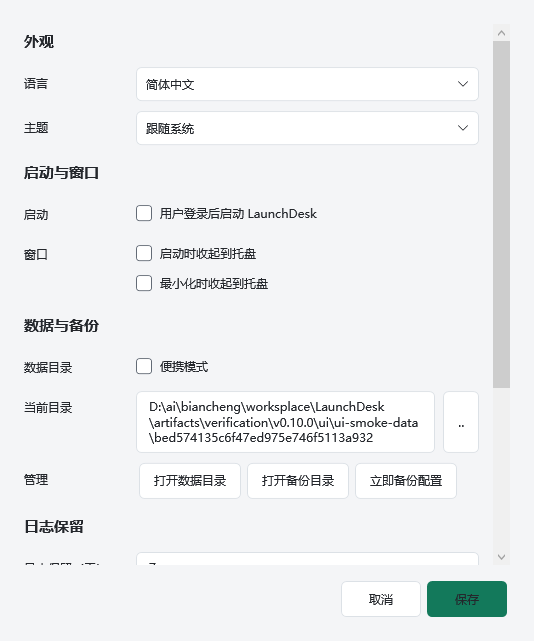
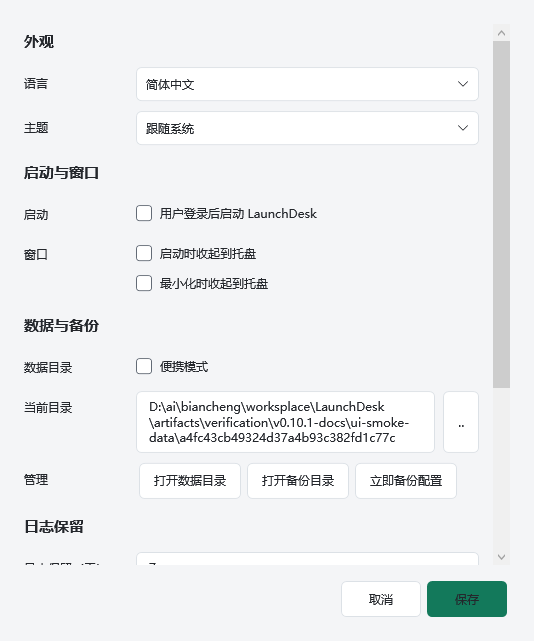
Fix stderr channel styling and release v0.10.1

Changed region(s): [[0.2697, 0.6552, 0.779, 0.6864]]

diff --git a/tests/LaunchDesk.UiChecks/UsabilityChecks.cs b/tests/LaunchDesk.UiChecks/UsabilityChecks.cs
@@ -137,7 +137,7 @@ internal static class UsabilityChecks
                 var prefix = ((Paragraph)rendered.Document.Blocks.FirstBlock).Inlines.OfType<Run>().First();
                 Check(ReferenceEquals(prefix.Foreground, Application.Current.Resources["TerminalText"]), "Stdout ERROR remains stdout");
                 rendered.Channel = "stderr";
-                Check(ReferenceEquals(prefix.Foreground, Application.Current.Resources["LogError"]), "Stderr prefix color");
+                Check(ReferenceEquals(prefix.Foreground, Application.Current.Resources["TerminalText"]), "Stderr is a transport channel, not error severity");
                 Theme.ApplyHighContrast(Application.Current.Resources);
                 Check(ReferenceEquals(prefix.Foreground, SystemColors.WindowTextBrush), "High contrast channel fallback");
                 var selectedContainer = (ListBoxItem)ItemsControl.ContainerFromElement(log, rendered);
@@ -146,6 +146,22 @@ internal static class UsabilityChecks
                 var link = ((Paragraph)rendered.Document.Blocks.FirstBlock).Inlines.OfType<Hyperlink>().Single();
                 Check(ReferenceEquals(link.Foreground, SystemColors.HighlightTextBrush) && link.ToolTip!.ToString()!.Contains("Ctrl"), "Selected link contrast and tooltip");
                 UiSmokeRunner.Capture(logWindow, report + ".high-contrast.png");
+                foreach (var theme in new[] { "Light", "Dark" })
+                {
+                    Theme.Apply(theme);
+                    var samples = new[] { "INFO[2026-10-15 21:07:47] start HTTP server @ 0.0.0.0:5244", "WARN[2026-10-15 21:07:47] init tool aria2 failed", "ERROR connection failed" };
+                    log.SetProjectedLines(samples.Select(x => new ProjectedLogLine("[stderr] " + x, 9, "stderr")).ToArray());
+                    log.UnselectAll(); logWindow.UpdateLayout();
+                    var stderrRows = LogView.VisualChildren<LogLineView>(log).Where(x => x.Channel == "stderr").ToArray();
+                    Check(stderrRows.Length == samples.Length, "Alist stderr rows rendered " + theme);
+                    foreach (var stderrRow in stderrRows)
+                    {
+                        var run = ((Paragraph)stderrRow.Document.Blocks.FirstBlock).Inlines.OfType<Run>().First();
+                        Check(ReferenceEquals(run.Foreground, Application.Current.Resources["TerminalText"]), "Stderr severity is not inferred " + theme);
+                        Check(stderrRow.Value.StartsWith("[stderr] ") && samples.Any(stderrRow.Value.EndsWith), "Original stderr content retained " + theme);
+                    }
+                    UiSmokeRunner.Capture(logWindow, report + ".stderr-" + theme + ".png");
+                }
             }
             finally { logWindow.Close(); Theme.Apply("Light"); }
             Check(ExitCodeDisplay.Format(NativeProcess.ForcedExitCode) == "0xE04C4401" && ExitCodeDisplay.Format(1) == "1", "Forced versus ordinary exit formatting");

diff --git a/src/LaunchDesk.App/LogView.cs b/src/LaunchDesk.App/LogView.cs
@@ -334,8 +334,9 @@ public sealed class LogLineView : RichTextBox
     private void ApplyChannelColor()
     {
         if (Document is null) return;
-        // Only the provenance prefix is colored; stdout text is not severity-parsed.
-        var key = IsRowSelected ? "LogSelectedText" : Channel switch { "stderr" => "LogError", "system" => "LogSystem", "stdin" => "LogInput", _ => "TerminalText" };
+        // stdout/stderr identify pipes, not severity: many services log INFO to stderr.
+        // Preserve the actual channel without implying that a running service failed.
+        var key = IsRowSelected ? "LogSelectedText" : Channel switch { "system" => "LogSystem", "stdin" => "LogInput", _ => "TerminalText" };
         foreach (var run in prefixRuns) run.SetResourceReference(ForegroundProperty, key);
         if (Document.Blocks.FirstBlock is Paragraph paragraph)
             foreach (var link in paragraph.Inlines.OfType<Hyperlink>()) link.SetResourceReference(ForegroundProperty, IsRowSelected ? "LogSelectedText" : "LogLink");

diff --git a/README.en.md b/README.en.md
@@ -20,7 +20,7 @@ Start scripts, commands and programs together. Keep their status and logs in one
 
 ![LaunchDesk English interface](docs/images/main-en.png)
 
-> Current stable release: **v0.10.0**. Installers are **unsigned and require manual installation**; stable status is not publisher-signature certification. Screenshots use isolated fixture data, not preinstalled launch items or logs. [More screenshots](docs/screenshots.md)
+> Current stable release: **v0.10.1**. Installers are **unsigned and require manual installation**; stable status is not publisher-signature certification. Screenshots use isolated fixture data, not preinstalled launch items or logs. [More screenshots](docs/screenshots.md)
 
 ## Contents
 
@@ -76,7 +76,7 @@ Each item has its own arguments, working directory, environment, encoding, stop 
 ### Download and install
 
 1. Open the [latest stable release](https://github.com/hailaij/LaunchDesk/releases/latest).
-2. Download `LaunchDesk-v0.10.0-win-x64-setup.exe` or the portable `LaunchDesk-v0.10.0-win-x64.zip`.
+2. Download `LaunchDesk-v0.10.1-win-x64-setup.exe` or the portable `LaunchDesk-v0.10.1-win-x64.zip`.
 3. Windows 10/11 x64 self-contained packages include .NET. Fully extract the ZIP before running `LaunchDesk.exe`.
 4. Add a launch item, enter the command/resource, arguments and working directory, then start it.
 
@@ -108,7 +108,7 @@ See [advanced usage and development](docs/advanced-guide.en.md) for packaging, t
 | [Services, accessibility and installer](docs/service-accessibility-installer.md) | CLI, elevation, service hosting and acceptance boundaries |
 | [Project structure](docs/project-structure.md) | Source, tests, scripts and generated files |
 | [Update boundaries](docs/update-security.md) | Metadata checks, browser downloads and independent signing gates |
-| [Release verification](docs/release-v0.10.0.md) | Release provenance, verification scope and known limitations |
+| [Release verification](docs/release-v0.10.1.md) | Release provenance, verification scope and known limitations |
 | [Test isolation and scale](docs/scale-and-test-gates.md) | Deadlines, resource keys, 1,000-item and 200 MiB gates |
 | [Security](SECURITY.md) / [Privacy](PRIVACY.md) | Vulnerability reporting, network and local data handling |
 
@@ -151,7 +151,7 @@ It does not manage their internal lifecycles or provide remote administration. E
 
 **Is the stable release signed and fully accepted on physical machines?**
 
-No. Packages remain unsigned. Physical Windows 10, real services, UAC/SCM and screen-reader acceptance are pending. A prior development source passed a one-hour soak, but it was not repeated on this release source. Historical intermittent npm/PowerShell exit timeouts remain unexplained; subsequent passes do not prove a root-cause fix. See the [release verification record](https://github.com/hailaij/LaunchDesk/releases/tag/v0.10.0).
+No. Packages remain unsigned. Physical Windows 10, real services, UAC/SCM and screen-reader acceptance are pending. A prior development source passed a one-hour soak, but it was not repeated on this release source. Historical intermittent npm/PowerShell exit timeouts remain unexplained; subsequent passes do not prove a root-cause fix. See the [release verification record](https://github.com/hailaij/LaunchDesk/releases/tag/v0.10.1).
 
 ## Changelog
 

diff --git a/README.md b/README.md
@@ -20,7 +20,7 @@
 
 ![LaunchDesk 主界面](docs/images/main.png)
 
-> 当前正式版本：**v0.10.0**。安装包**未签名，需手动下载安装**；正式发布不等于发行者签名认证。截图由隔离测试数据生成，首次安装不会带示例启动项或日志。[更多界面截图](docs/screenshots.md)
+> 当前正式版本：**v0.10.1**。安装包**未签名，需手动下载安装**；正式发布不等于发行者签名认证。截图由隔离测试数据生成，首次安装不会带示例启动项或日志。[更多界面截图](docs/screenshots.md)
 
 ## 目录
 
@@ -76,7 +76,7 @@ LaunchDesk 面向需要反复启动多个本地程序或后台服务的 Windows 
 ### 下载安装
 
 1. 打开 [最新正式版](https://github.com/hailaij/LaunchDesk/releases/latest)。
-2. 下载 `LaunchDesk-v0.10.0-win-x64-setup.exe` 安装器，或 `LaunchDesk-v0.10.0-win-x64.zip` 免安装包。
+2. 下载 `LaunchDesk-v0.10.1-win-x64-setup.exe` 安装器，或 `LaunchDesk-v0.10.1-win-x64.zip` 免安装包。
 3. Windows 10/11 x64 自包含包自带 .NET；ZIP 须完整解压后运行 `LaunchDesk.exe`。
 4. 点击添加图标，填写资源/命令、参数和工作目录，再启动该项。
 
@@ -108,7 +108,7 @@ dotnet run --project src/LaunchDesk.App -c Release
 | [服务、无障碍与安装器](docs/service-accessibility-installer.md) | CLI、提权、服务托管及验收边界 |
 | [项目结构](docs/project-structure.md) | 源码、测试、脚本和产物目录 |
 | [更新边界](docs/update-security.md) | 版本检查、浏览器下载与独立签名发布门禁 |
-| [版本验证](docs/release-v0.10.0.md) | 发布来源、验证范围及已知限制 |
+| [版本验证](docs/release-v0.10.1.md) | 发布来源、验证范围及已知限制 |
 | [测试隔离与规模验证](docs/scale-and-test-gates.md) | 测试超时、资源键、1000 项及 200 MiB 门禁 |
 | [安全政策](SECURITY.md) / [隐私政策](PRIVACY.md) | 漏洞报告、联网与本地数据处理 |
 
@@ -151,7 +151,7 @@ dotnet run --project src/LaunchDesk.App -c Release
 
 **正式版是否已经签名并完成所有实机验收？**
 
-没有。安装包仍未签名；Win10 实机、真实服务、UAC/SCM 和读屏验收待完成。此前开发源码的一小时耐久已通过，但本版发布源码未重跑一小时验收。历史 npm/PowerShell 偶发退出超时的根因尚未确认，后续通过不等于根因修复。详见 [Release 验证说明](https://github.com/hailaij/LaunchDesk/releases/tag/v0.10.0)。
+没有。安装包仍未签名；Win10 实机、真实服务、UAC/SCM 和读屏验收待完成。此前开发源码的一小时耐久已通过，但本版发布源码未重跑一小时验收。历史 npm/PowerShell 偶发退出超时的根因尚未确认，后续通过不等于根因修复。详见 [Release 验证说明](https://github.com/hailaij/LaunchDesk/releases/tag/v0.10.1)。
 
 ## 更新日志
 

diff --git a/docs/release-v0.10.1.md b/docs/release-v0.10.1.md
@@ -1,0 +1,21 @@
+# LaunchDesk v0.10.1
+
+正式发布，未签名，仅手动安装 / Stable, unsigned, manual installation only.
+
+## Changes / 变更
+
+- 修正 stderr 前缀被统一标为错误红色的问题。部分服务（如 Alist）将 INFO、WARN 写入 stderr；stdout/stderr 均使用中性色，不自动推断严重程度，也不改变真实输出通道。
+- 保留警告和错误原文、通道过滤、日志导出、虚拟化、链接及选中行行为。服务状态仍由进程及就绪/健康检测判断。
+- 补浅色、深色、高对比度与 Alist 风格日志回归，更新中英文使用说明。
+
+Use neutral stdout/stderr prefixes without conflating output pipes with severity. Alist INFO messages written to stderr no longer appear as errors. Original messages, channels, filters, exports, virtualization, links and selection remain intact. Process and readiness/health checks still determine service status.
+
+## Verification / 验证
+
+发布前要求对应提交的完整 Windows CI 通过；隔离签名样本仅用于测试，不能代替生产授权。安装器以隔离 AppId 验证首次安装无示例、升级保留配置/日志/备份及卸载保留数据。提交、CI 链接和最终资产哈希记录在 GitHub Release。
+
+Release requires passing exact-commit Windows CI and isolated installer acceptance. Test signing fixtures are not production authorization. GitHub Release records the source commit, CI URL and final asset hashes.
+
+Win10 实机、真实 UAC/SCM、读屏及本版一小时耐久未验收；高对比度仅为资源策略模拟。历史 npm/PowerShell 偶发退出超时根因仍未定位。未签名安装包仅手动下载安装；生产 SignPath 链路继续阻断，Latest 不代表发行者签名认证。
+
+Physical Win10, real UAC/SCM, screen-reader and one-hour endurance acceptance of this version remain pending. High contrast is simulated. Historical intermittent npm/PowerShell shutdown timeouts remain unexplained. Packages are unsigned and manual-install only; production SignPath signing remains blocked. Latest is not publisher-signature certification.

diff --git a/docs/screenshots.md b/docs/screenshots.md
@@ -1,6 +1,6 @@
 # Screenshots / 界面截图
 
-v0.10.0, generated from the current WPF application on 2026-10-14.
+v0.10.1, generated from the current WPF application on 2026-10-15.
 截图由当前程序的隔离界面测试生成，示例启动项未执行，也不会随首次安装创建。
 These are fixture previews, not preinstalled services or user configuration.
 Version and image SHA-256 inventory: [manifest](images/manifest.json).
@@ -9,27 +9,27 @@ their hashes and the current version in CI; visual inspection is still required.
 
 ## 简体中文
 
-![v0.10.0 Chinese main window](images/main.png)
+![v0.10.1 Chinese main window](images/main.png)
 
 ## English
 
-![v0.10.0 English compact window](images/main-en.png)
+![v0.10.1 English compact window](images/main-en.png)
 
 ## Dark Theme / 深色主题
 
-![v0.10.0 dark theme](images/main-dark.png)
+![v0.10.1 dark theme](images/main-dark.png)
 
 ## Health Settings / 健康监控设置
 
-![v0.10.0 health monitoring settings](images/health-settings.png)
+![v0.10.1 health monitoring settings](images/health-settings.png)
 
 ## Settings / 设置
 
-![v0.10.0 settings](images/settings.png)
+![v0.10.1 settings](images/settings.png)
 
 ## First Launch / 首次运行
 
-![v0.10.0 empty first launch](images/first-launch.png)
+![v0.10.1 empty first launch](images/first-launch.png)
 
 Real UAC/SCM, screen readers and physical Windows 10 acceptance remain pending.
 真实 UAC/SCM、读屏软件和 Windows 10 实机验收仍待完成。

diff --git a/docs/user-guide.en.md b/docs/user-guide.en.md
@@ -24,6 +24,8 @@ Choose **Settings > Appearance > Language > English** or Simplified Chinese and 
 
 First use has no sample items. Existing user configuration and logs are retained during upgrades. Closing the window hides it to the tray; **Exit** stops managed processes and drains logs. Exit before upgrading or uninstalling.
 
+`stdout` / `stderr` identify the actual output pipes, not severity or service health. Some services, including Alist, write INFO and WARN messages to stderr. Both channels use neutral prefixes without inferring severity. Consult the original messages, process status and readiness/health checks; filtering and exports preserve the actual source.
+
 Each item has its own resource, arguments, working directory, environment variables and encoding. For npm, use the directory containing the intended `package.json` and its start script. Shell scripts require an explicit executable interpreter. Folders group items without moving disk files. Dissolving a folder retains its items and logs.
 
 Item notes appear to the right, immediately before the run button. Long notes are truncated with a full-text tooltip and are included in item search. Double-click a note (including an empty cell) to edit inline; Enter or focus loss saves, Esc cancels. Column sorting is disabled to keep folder members below their headers; use drag-and-drop or the up/down buttons to reorder.

diff --git a/CHANGELOG.md b/CHANGELOG.md
@@ -4,6 +4,11 @@
 
 ### 待发布
 
+### [0.10.1] - 2026-10-15
+
+- 修正 stderr 通道前缀被统一标为错误红色的问题。stdout/stderr 均中性显示，不把 Alist 等服务的正常 INFO 输出误示为错误；保留真实通道、警告原文、过滤及导出。
+- 补充浅色、深色、高对比度及日志增量界面回归，更新中英文通道说明。
+
 ### [0.10.0] - 2026-10-14
 
 - 精简工具栏，低频操作集中到“更多操作”；增强文件夹分组、成员数量及行操作的选择/聚焦反馈，修复行末按钮边距造成的裁切。

diff --git a/CHANGELOG.en.md b/CHANGELOG.en.md
@@ -4,6 +4,11 @@
 
 ### Unreleased
 
+### [0.10.1] - 2026-10-15
+
+- Use neutral stdout/stderr prefixes: stderr is a transport channel, not error severity. Normal Alist INFO messages no longer appear as errors. Actual channels, original warnings, filtering and exports are preserved.
+- Add light/dark theme and high-contrast log UI regressions; clarify channel semantics in both guides.
+
 ### [0.10.0] - 2026-10-14
 
 - Simplify the toolbar with a More actions menu; emphasize folder groups, member counts and selected/focused row actions. Fix margins clipping the last row action.
